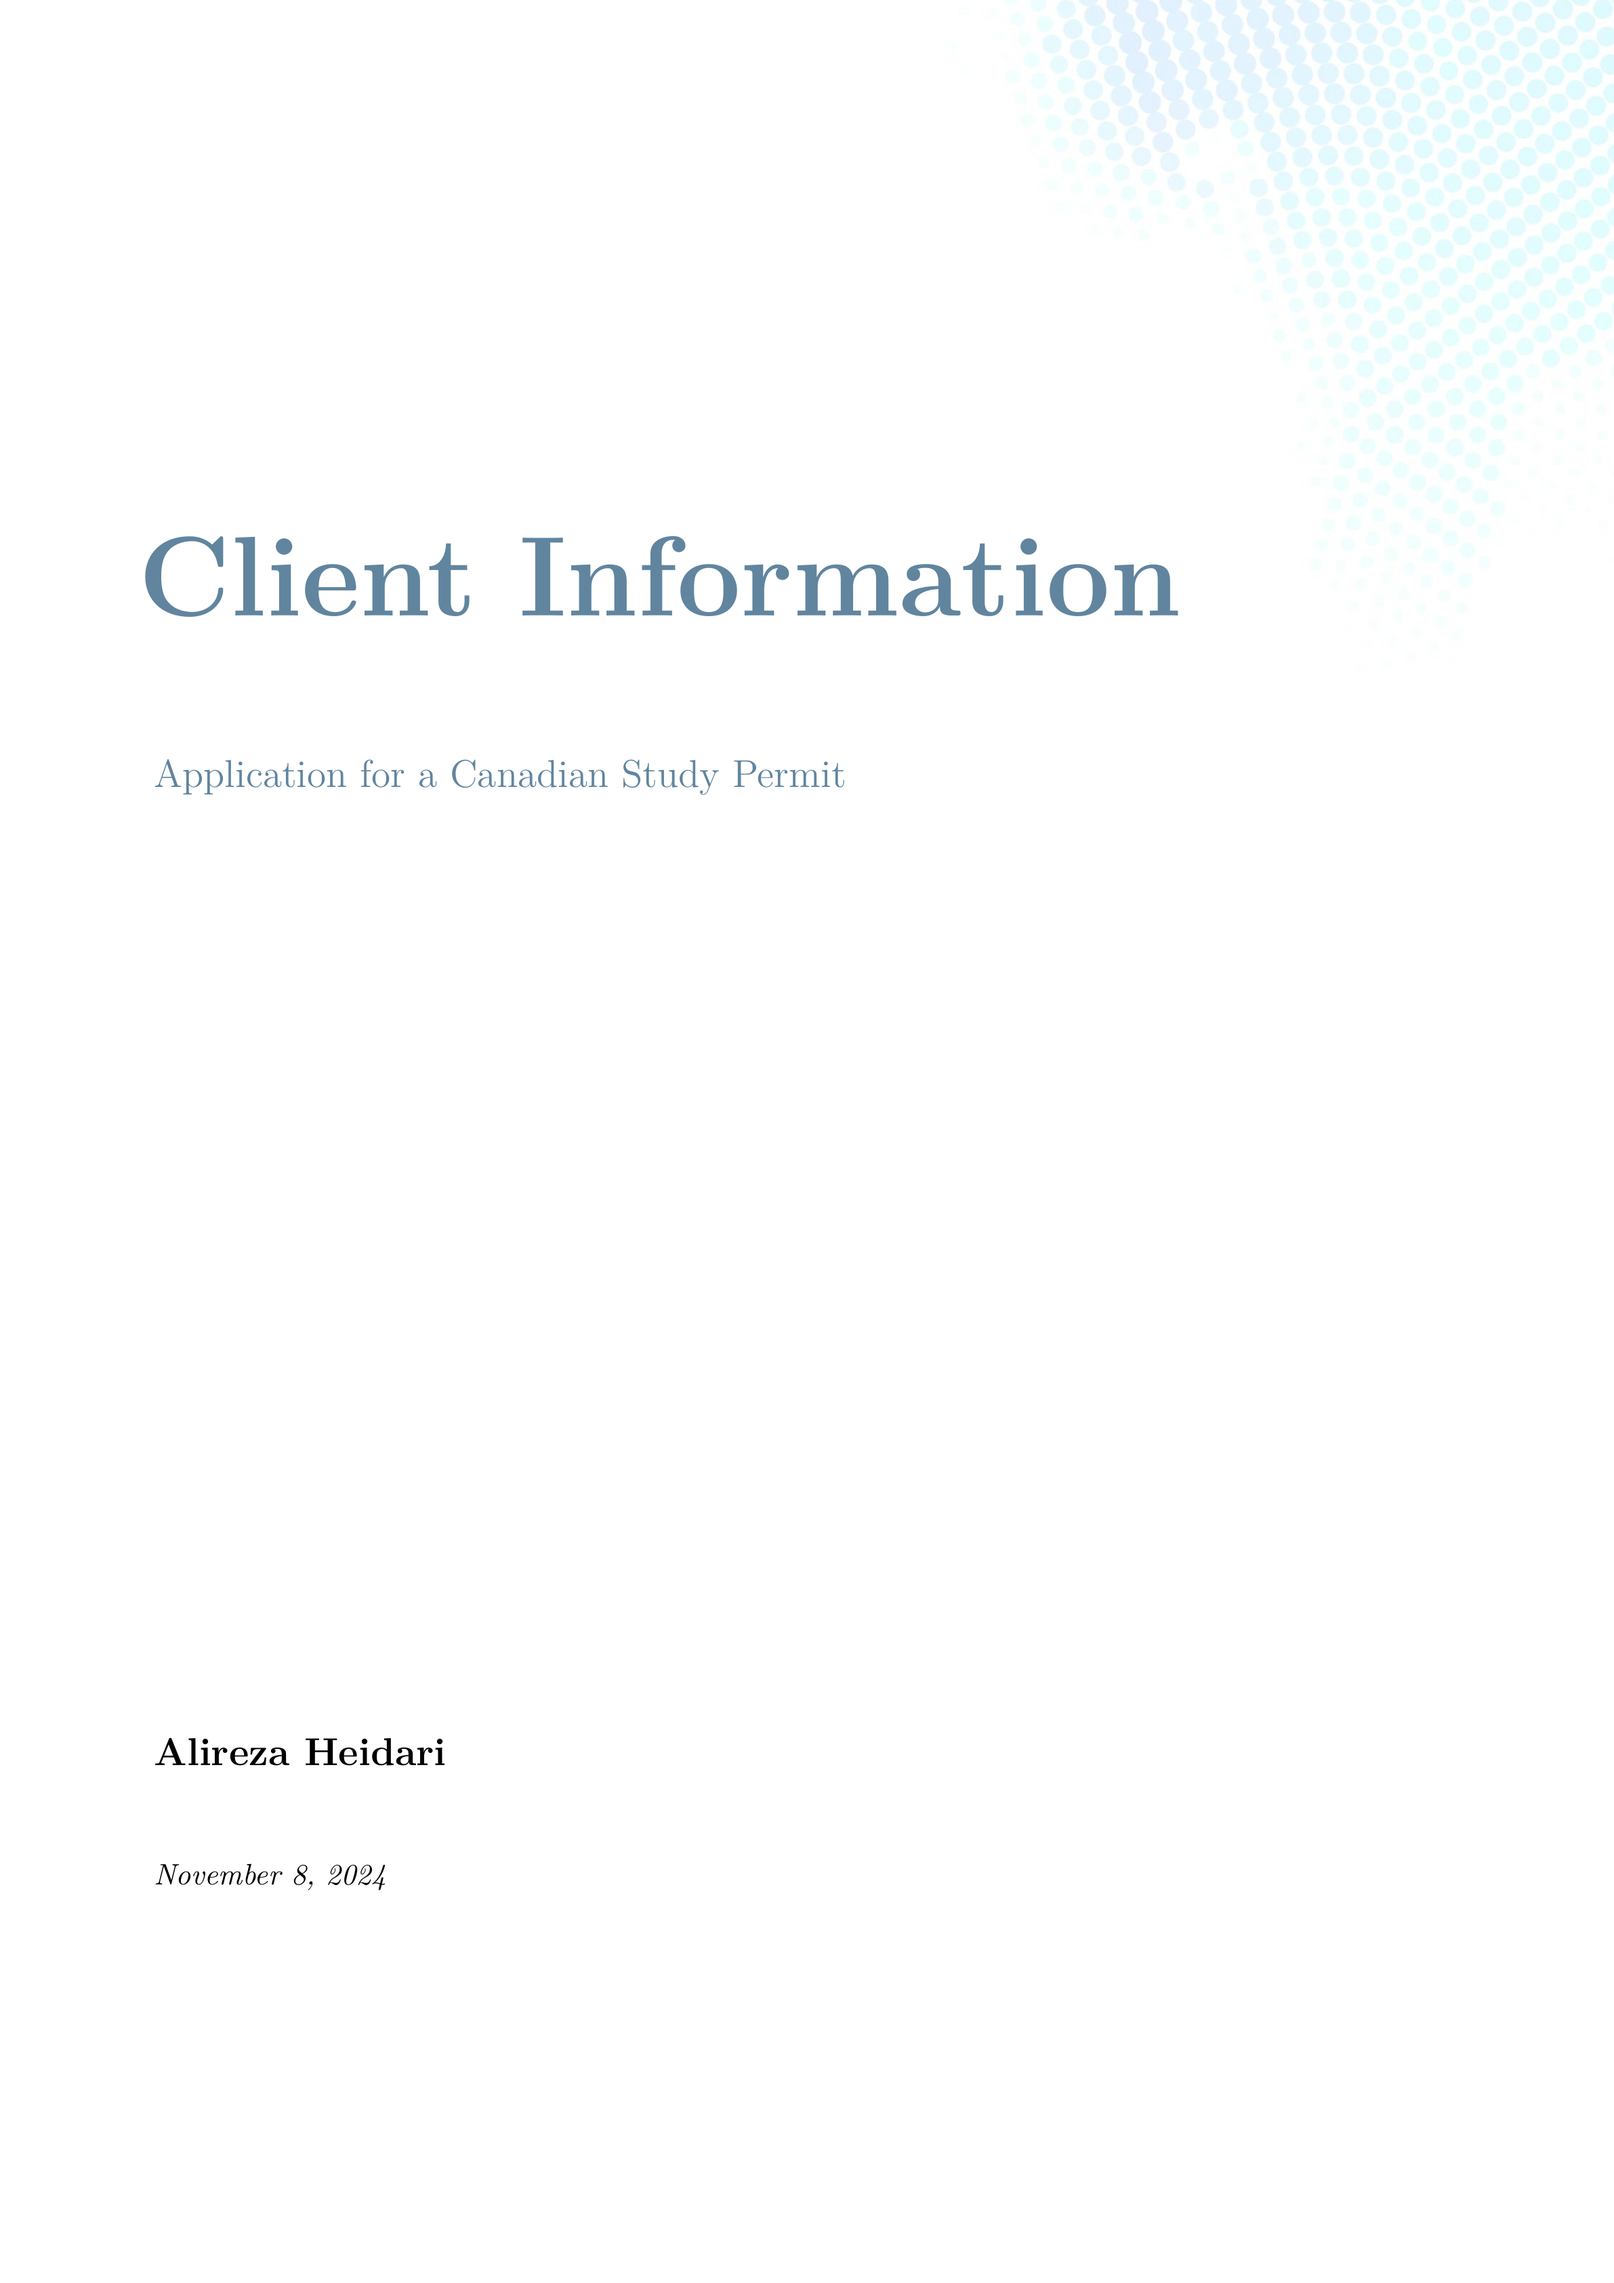
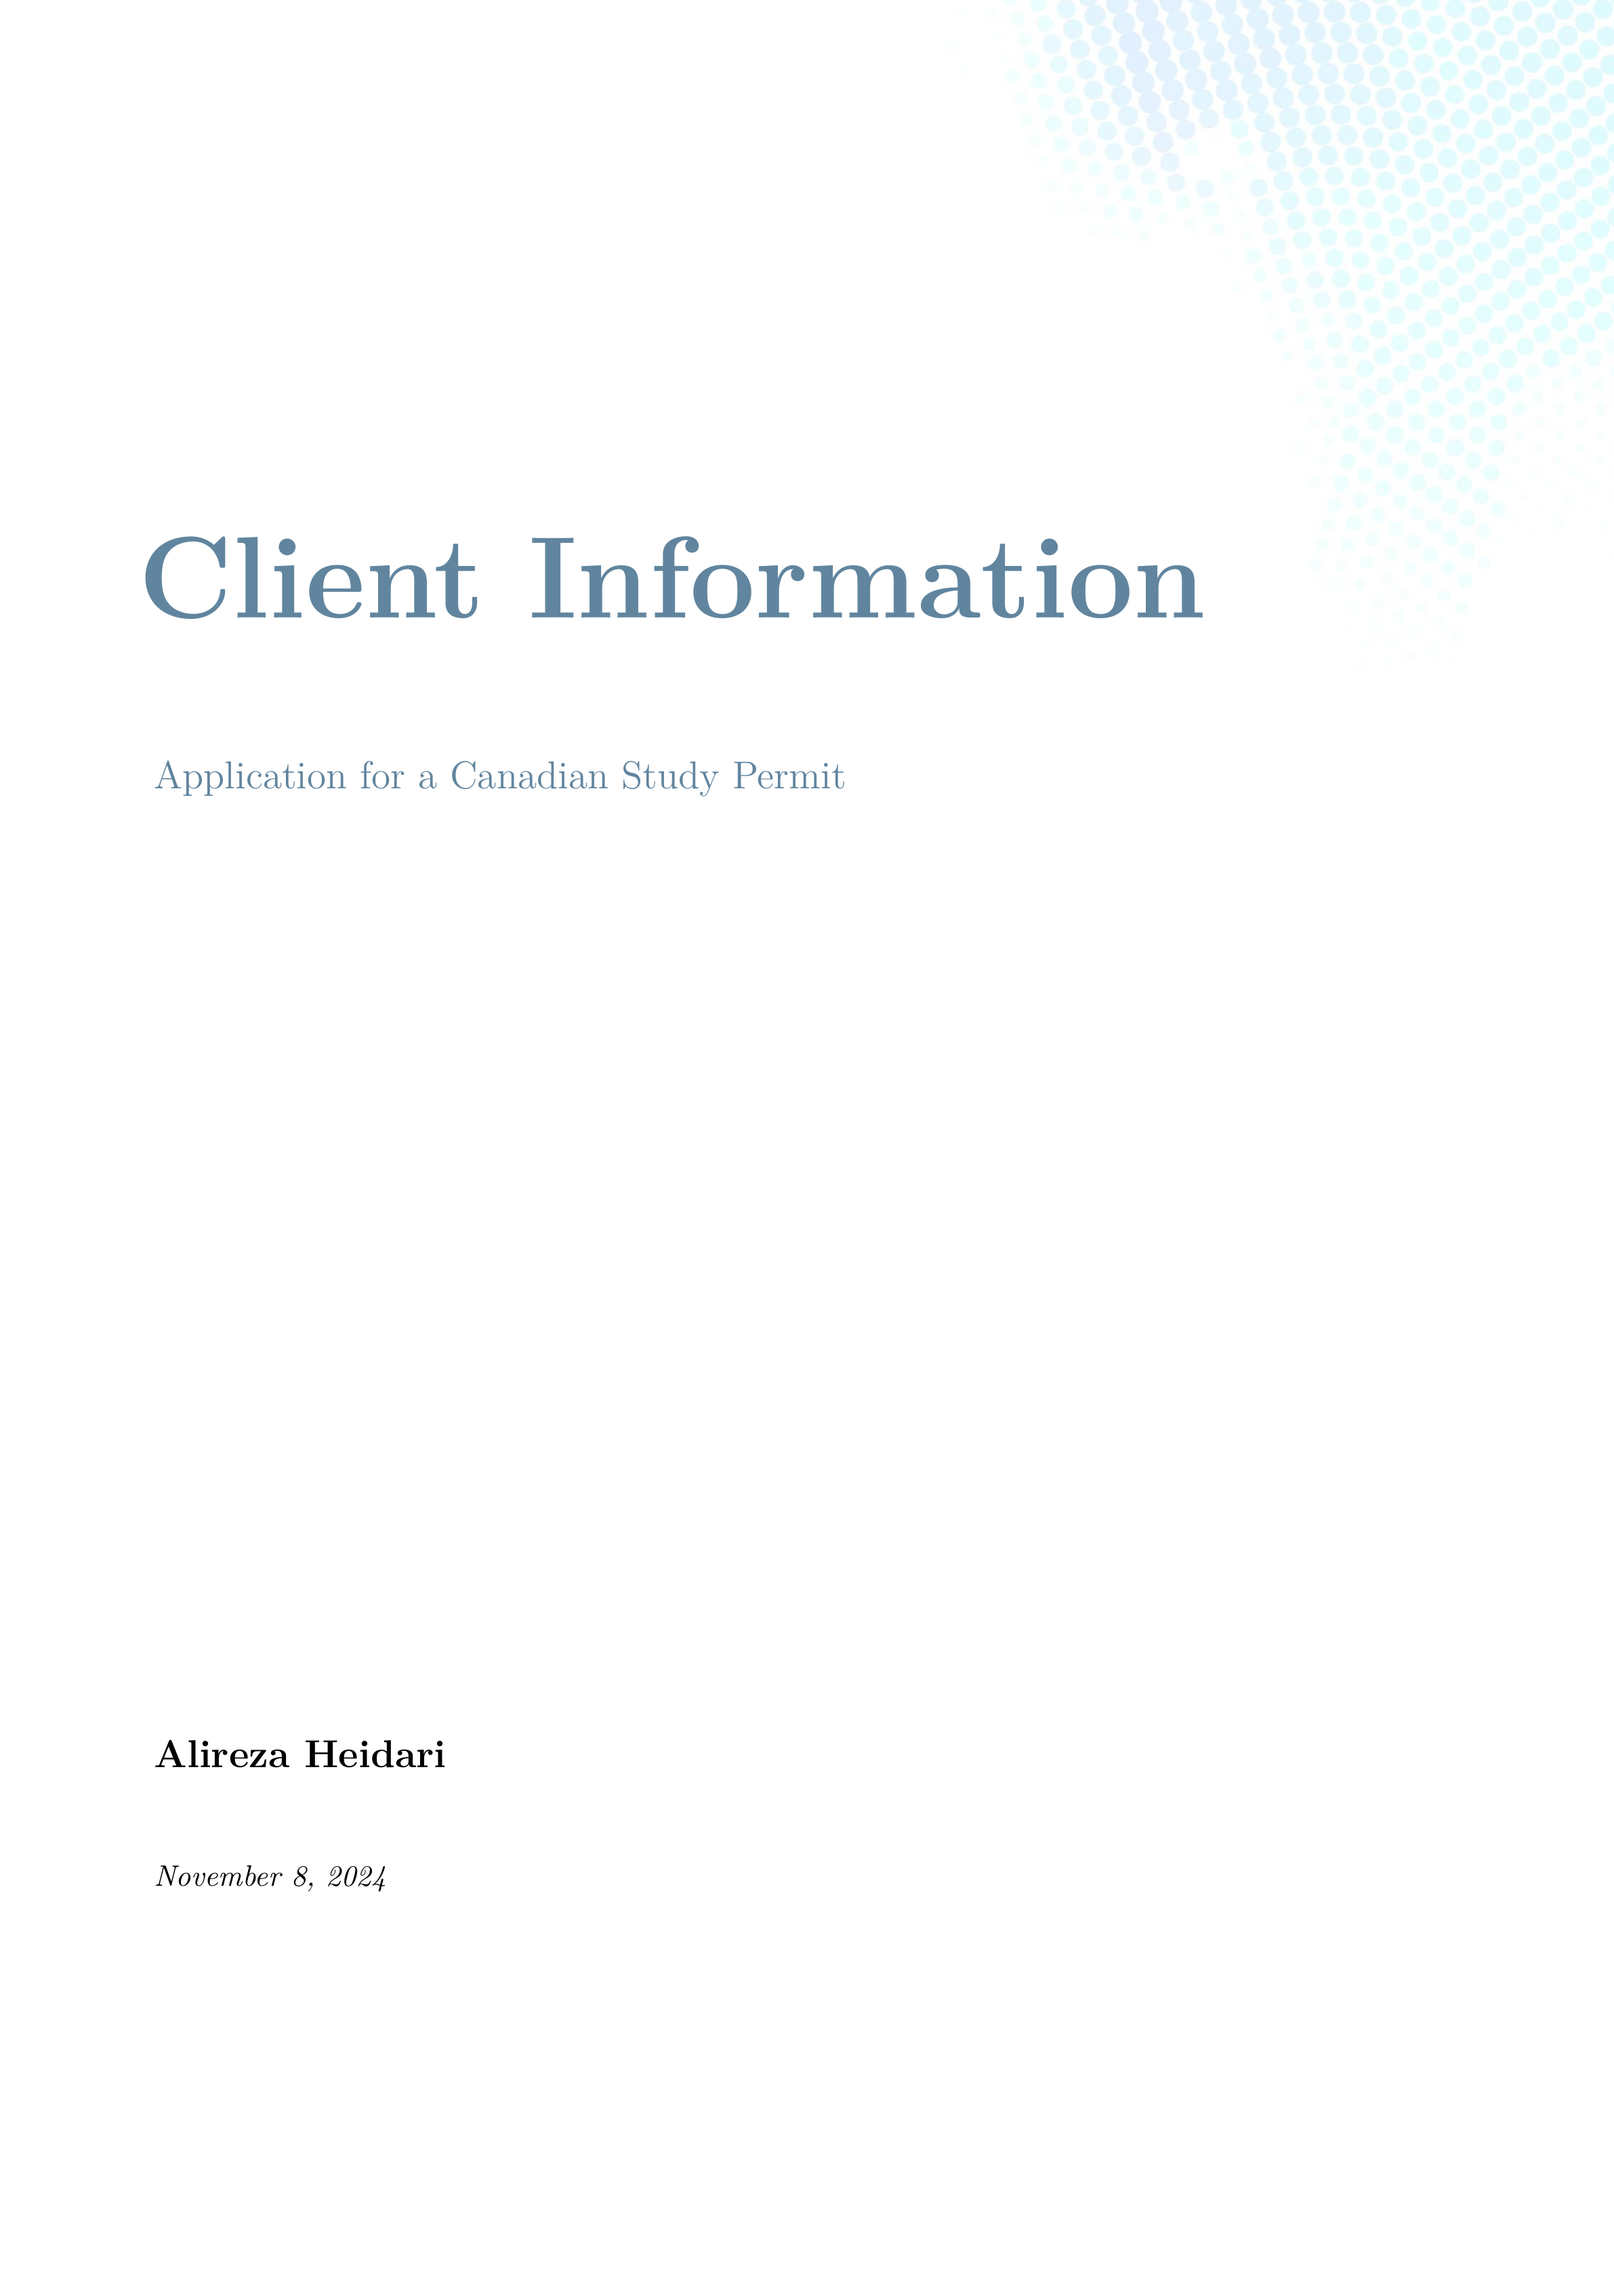
updated cl

Changed region(s): [[0.1243, 0.2182, 0.7456, 0.2806], [0.1864, 0.7482, 0.2485, 0.7794], [0.1243, 0.7482, 0.1553, 0.7794]]

diff --git a/client-information/titlepage.tex b/client-information/titlepage.tex
@@ -3,7 +3,7 @@
     \vfill
     \begin{minipage}{0.9\textwidth}
         \vspace{5cm}
-        {\hspace{-0.2cm}\color{myBlue}\fontsize{42}{20}\selectfont\bfseries\documentTitle\par}
+        {\hspace{-0.2cm}\color{myBlue}\fontsize{43}{20}\selectfont{\textbf{\documentTitle}}\par}
         \vspace{1.5cm}
         {\color{myBlue}\Large Application for a Canadian Study Permit\par}
         \vspace{12cm}

diff --git a/README.md b/README.md
@@ -22,6 +22,16 @@ Create professional Study Permit visa applications with ready-to-use LaTeX templ
 | ✍ Cover Letter | Application letter | Professional introduction |
 | 📁 Supporting Docs | Additional materials | Strengthen application |
 
+
+## 📸 Sample Images
+
+| Page Type            | Client Information Document                                                                                               | Proof of Means of Financial Support Document                                                                   |
+|----------------------|---------------------------------------------------------------------------------------------------------------------------|----------------------------------------------------------------------------------------------------------------|
+| **Title Page**       | <p align="center"><img src="https://raw.githubusercontent.com/deepmancer/canada-visa-document-templates/main/assets/images/cl-titlepage.png" width="300"></p> | <p align="center"><img src="https://raw.githubusercontent.com/deepmancer/canada-visa-document-templates/main/assets/images/pmfs-titlepage.png" width="300"></p> |
+| **Cover Letter**     | <p align="center"><img src="https://raw.githubusercontent.com/deepmancer/canada-visa-document-templates/main/assets/images/cl-cover-letter.png" width="300"></p> | <p align="center"><img src="https://raw.githubusercontent.com/deepmancer/canada-visa-document-templates/main/assets/images/pmfs-cover-letter.png" width="300"></p> |
+| **Table of Contents**| <p align="center"><img src="https://raw.githubusercontent.com/deepmancer/canada-visa-document-templates/main/assets/images/cl-table-of-content.png" width="300"></p> | <p align="center"><img src="https://raw.githubusercontent.com/deepmancer/canada-visa-document-templates/main/assets/images/pmfs-table-of-content.png" width="300"></p> |
+
+
 ## 🚀 Getting Started
 
 ### Option 1: Using Overleaf (Recommended)
